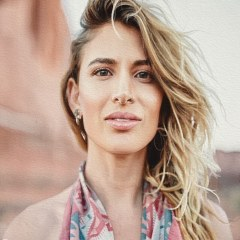
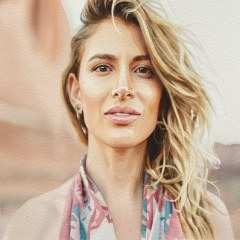
Every style is unmistakably itself at 100%, and the slider decides how far (Emerald, Nov 19)
Her ruling: 'It should look like an actual watercolor painting and then we
have the slider so people can decide how much watercolor it looks like.'

The prompts had been guarding the PIXELS — 'change only the medium, keep
everything pixel for pixel' — which is so strict the model never committed to
being a painting, and the watercolour came back looking like a lightly
retouched photograph. They now guard the PERSON instead: same face, same nose
and nose ring, same expression, no beautifying, no slimming, no change of
age. That leaves the medium free to take over completely, and the slider is
what brings it back toward the photo for anyone who wants less.

Watercolour is her pick of two trials: loose washes, bare paper showing, the
background dissolving. (The other, 'wet edges', had drips running down the
paper: 'looks weird'.) The same loosening is applied to oil, pencil and ink.

The face rule is now correctly scoped to the OIL ONLY, which is where thick
paint can actually happen, and the header comment that claimed otherwise is
fixed. Sample tiles rebuilt from the approved renders.

Claude-Session: https://claude.ai/code/session_01Ut7Si5qdbTHR4hYZnPFDAy

diff --git a/apps/api/src/lib/paintPhoto.ts b/apps/api/src/lib/paintPhoto.ts
@@ -11,9 +11,10 @@
 //    Risograph is the one exception and comes from OpenAI — see below.
 //
 // 2. THE FACE RULE is hers, verbatim: "on faces we don't ever want those big
-//    thick strokes". It is in every painterly prompt. The model treats it as
-//    a strong preference rather than a law, so the oil is ALSO capped in the
-//    app — belt and braces.
+//    thick strokes". It applies to the OIL ONLY — watercolour has no impasto,
+//    and including it there made the painting timid (proven on the first live
+//    render). The model treats it as a preference rather than a law, so the
+//    oil slider is ALSO capped at 60 in the app.
 //
 // 3. REGISTRATION is the non-obvious one. The model hands back a picture
 //    that is subtly zoomed and shifted, roughly 2-5% bigger and a dozen
@@ -40,31 +41,44 @@ export const MEDIUM_LIMITS: Record<Medium, { max: number; default: number }> = {
   risograph: { max: 100, default: 85 },
 }
 
+// PROTECT THE PERSON, NOT THE PIXELS (Emerald, Nov 19).
+//
+// The first version said "change only the medium, keep everything pixel for
+// pixel". That is so strict the model never dared commit to being a painting,
+// and the watercolour came back looking like a lightly retouched photograph.
+// Her ruling: the 100% end should be an unmistakable painting, and the SLIDER
+// is what brings it back toward the photo for anyone who wants less.
+//
+// So the clause now guards identity — the face, the features, the expression,
+// no beautifying — and leaves the medium free to take over completely.
+const PERSON =
+  'The person must remain clearly and unmistakably the same individual: same face shape, same nose and nostrils, any nose ring or piercing, same closed lips, same eyes and eyebrows, same expression, same hair colour and the same pose and framing. Do not beautify, do not slim, do not change their age, do not open the mouth, do not add makeup.'
+
+// Her rule, verbatim: "on faces we don't ever want those big thick strokes".
+// OIL ONLY. Watercolour has no impasto, and including this there just made
+// the painting timid — proven on the first live render.
 const FACE_RULE =
   'THE FACE IS NEVER PAINTED WITH BIG THICK STROKES. On all skin, and especially the face, use only small, fine, controlled brush strokes that follow the form. No wide streaks, no palette-knife slabs, no thick blobs of paint anywhere on the face, the neck or the hands, at any point. Large, loose, heavily loaded brushwork is allowed ONLY in the background, the hair and the clothing.'
 
-const KEEP =
-  "Change only the medium, nothing else. Keep the face the same shape: the same nostril width and nose shape, any nose ring or piercing, the same closed lips with the same cupid's bow, the same eyes and eyebrows, the same jawline and expression. Keep the hair falling exactly as it does, the same pose, the same framing and the same clothing. Do not beautify, do not slim, do not open the mouth, do not add makeup."
-
-// Risograph has to throw nearly all the colour away, so the strict clause
-// above fought the medium and the model simply handed the photo straight
-// back, three times. This one protects the SHAPES and frees the colour.
+// Risograph has to throw nearly all the colour away, so even the clause above
+// fought the medium and the model handed the photo straight back, three
+// times. This protects shapes only and frees the colour entirely.
 const KEEP_LOOSE =
   'Keep the face exactly the same shape: the same nose and nostrils, any nose ring, the same closed lips, the same eyes and eyebrows, the same expression, the same hair, the same pose and framing. The colours must change completely to suit the printing process, but no feature may move or change shape.'
 
 const PROMPTS: Record<Medium, string> = {
-  // NO FACE_RULE HERE, on purpose. Her rule is about big thick strokes, which
-  // is an OIL problem: watercolour has no impasto to begin with. Including it
-  // (first live test, Nov 19) made the watercolour timid and barely painted,
-  // because the wording is all about palette knives and slabs of paint. The
-  // rule belongs where the danger is.
-  watercolour: `Repaint this photograph as a traditional watercolour painting on cold-pressed paper: generous soft transparent washes, clearly visible brush strokes, pigment pooling and drying darker at the edges of washes, the white of the paper showing through the highlights, visible paper grain, colours bleeding gently into one another, no outlines. It must clearly read as a painting rather than a photograph. ${KEEP}`,
-  oil: `Repaint this photograph as a traditional oil painting on canvas. Visible brush strokes and real paint texture throughout, impasto catching the light in the background and the hair, visible canvas weave. ${FACE_RULE} ${KEEP}`,
-  pencil: `Redraw this photograph as a hand-drawn graphite pencil sketch. Every part of the drawing must be visibly built from individual pencil strokes: directional hatching and cross-hatching you can clearly see, loose sketchy lines, the grain of the paper breaking up the graphite. It must look hand-drawn, NOT like a black and white photograph and NOT like smooth airbrushed shading. Leave the paper white in the highlights and let the strokes get denser in the shadows. Monochrome graphite on white textured paper. ${KEEP}`,
-  ink: `Redraw this photograph as a pen and ink drawing on cream paper: confident dark ink lines, cross hatching for the shadows, no grey wash, the paper left bare in the light areas. ${KEEP}`,
-  // OpenAI, not Google: Google refused this one three times, handing the
-  // photograph back almost unchanged. OpenAI's high-fidelity edit does a
-  // genuine two-ink print. Emerald's call, Nov 19.
+  // Her pick of two, Nov 19: loose washes. (The other, "wet edges", had
+  // drips running down the paper — "looks weird".)
+  watercolour: `Paint this photograph again as a real watercolour painting on heavy cold-pressed paper. It must look like an actual painting made by an artist with a wet brush: generous loose washes, obvious brush strokes, pigment pooling and drying darker at the edges, colours bleeding into one another where they meet, and large areas where the bare white paper is simply left showing. Let the background dissolve into loose abstract washes. Visible paper texture throughout. It should be immediately obvious to anyone that this is a painting and not a photograph. ${PERSON}`,
+
+  oil: `Paint this photograph again as a real oil painting on canvas. It must look like an actual painting: confident visible brush strokes everywhere, thick paint standing off the canvas and catching the light, loose almost abstract brushwork in the background, visible canvas weave. Not photorealistic. ${FACE_RULE} ${PERSON}`,
+
+  pencil: `Redraw this photograph as a hand-drawn graphite pencil sketch. Every part of it must be visibly built from individual pencil strokes: directional hatching and cross-hatching you can clearly see, loose sketchy lines, the grain of the paper breaking up the graphite, the paper left bare and white in the highlights. It must look hand-drawn, NOT like a black and white photograph and NOT like smooth airbrushed shading. Let the background fall away into a few loose strokes. Monochrome graphite on white textured paper. ${PERSON}`,
+
+  ink: `Redraw this photograph as a pen and ink drawing on cream paper. Confident dark ink lines, cross hatching for the shadows, no grey wash at all, large areas of the paper simply left bare. Loose and hand-drawn, with the background barely suggested. ${PERSON}`,
+
+  // OpenAI, not Google: Google refused this one three times and handed the
+  // photograph back almost unchanged. Emerald's call, Nov 19.
   risograph: `Reprint this photograph as a two colour risograph print. Two ink layers slightly out of registration, coarse grain, flat areas of ink, limited palette of one warm red and one blue on off white paper. ${KEEP_LOOSE}`,
 }
 
